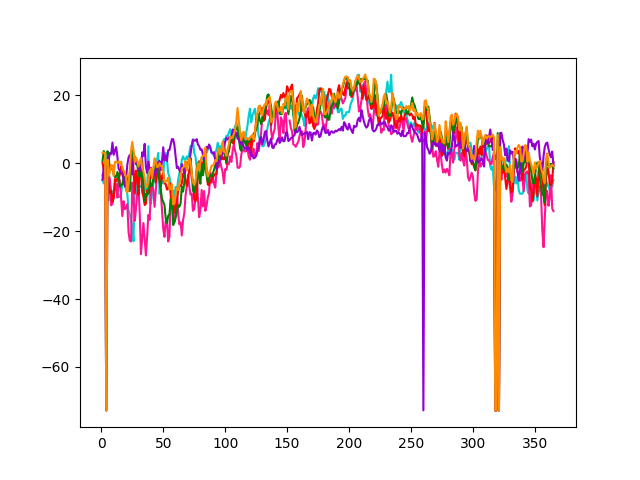
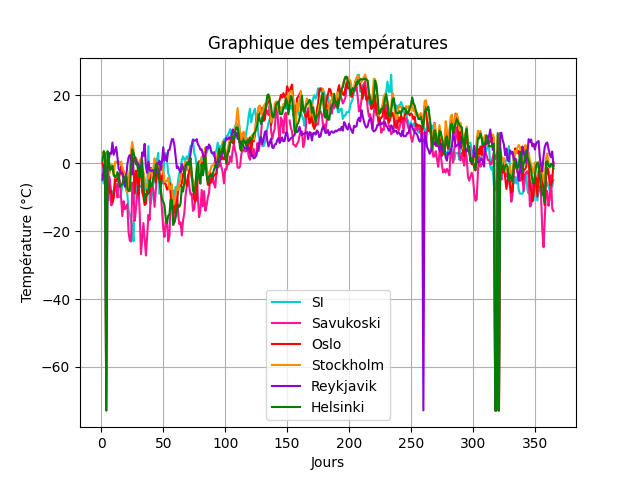
correction display graph

diff --git a/main.py b/main.py
@@ -1,4 +1,4 @@
-#!/usr/bin/env python
+#!/usr/bin/env python3
 
 # from pandas import DataFrame, read_csv
 import matplotlib.pyplot as plt
@@ -166,22 +166,22 @@ def comparaison_graph_annual_month():
 
     t = np.arange(1, 366, 1)
     fig, ax = plt.subplots()
-    ax.plot(t, array_si, color='darkturquoise', label="SI")
-    ax.plot(t, array_savukoski, color='deeppink', label="Savukoski")
-    # fig.savefig("screenshot/Savukoski.png")
-    ax.plot(t, array_oslo, color='red', label="Oslo")
-    # fig.savefig("screenshot/Oslo.png")
-    ax.plot(t, array_helsinki, color='green', label="Helsinki")
-    # fig.savefig("screenshot/Helsinki.png")
-    ax.plot(t, array_reykjavik, color='darkviolet', label="Reykjavik")
-    # fig.savefig("screenshot/Reykjavik.png")
-    ax.plot(t, array_stockholm, color='darkorange', label="Stockholm")
-    # fig.savefig("screenshot/Stockholm.png")
-    # fig.savefig("screenshot/Comparaison.png")
-    ax.grid()
     ax.set(xlabel='Jours', ylabel='Température (°C)',
         title='Graphique des températures')
+    ax.plot(t, array_si, color='darkturquoise', label="SI")
+    ax.plot(t, array_savukoski, color='deeppink', label="Savukoski")
+    ax.plot(t, array_oslo, color='red', label="Oslo")
+    ax.plot(t, array_stockholm, color='darkorange', label="Stockholm")
+    ax.plot(t, array_reykjavik, color='darkviolet', label="Reykjavik")
+    ax.plot(t, array_helsinki, color='green', label="Helsinki")
+    ax.grid()
     ax.legend()
+    # fig.savefig("screenshot/helsinki.png")
+    # fig.savefig("screenshot/reykjavik.png")
+    # fig.savefig("screenshot/savukoski.png")
+    # fig.savefig("screenshot/stockholm.png")
+    # fig.savefig("screenshot/comparaison.png")
+    # fig.savefig("screenshot/oslo.png")
     plt.show()
 
 
@@ -221,8 +221,8 @@ def graph_annual_month(dataTemperature):
     cid =  plt.connect('motion_notify_event', cursor.mouse_move)
     ax.set(xlabel='Jours', ylabel='Température (°C)',
         title='Graphique annuel')
-    # fig.savefig("screenshot/graphAnnual.png")
     ax.plot(t, flatten(dataTemperature), color='darkturquoise')
+    # fig.savefig("screenshot/graphAnnual.png")
     plt.show()
    
 

diff --git a/README.md b/README.md
@@ -85,7 +85,7 @@ Nous avons ensuite extrait le fichier de données sur le site kaggle (https://ww
 Chaque graphiques représentent les températures par jours pour l'année __2018__  de notre fichier SI et d'une autre ville.
 
 ###### Comparaison du SI avec Savukoski
-![graph Savukoski](/screenshot/Savukoski.png)
+![graph Savukoski](/screenshot/savukoski.png)
 
 ###### Comparaison du SI avec Olso
 ![graph olso](/screenshot/oslo.png)
@@ -94,14 +94,14 @@ Chaque graphiques représentent les températures par jours pour l'année __2018
 ![graph helsinki](/screenshot/helsinki.png)
 
 ###### Comparaison du SI avec Reykjavik
-![graph Reykjavik](/screenshot/Reykjavik.png)
+![graph Reykjavik](/screenshot/reykjavik.png)
 
 ###### Comparaison du SI avec Stockholm
 ![graph Stockholm](/screenshot/stockholm.png)
 
 
 ###### Comparaison du SI avec toutes les villes
-![graph Stockholm](/screenshot/Comparaison.png)
+![graph Stockholm](/screenshot/comparaison.png)
 
 -----------------
 
